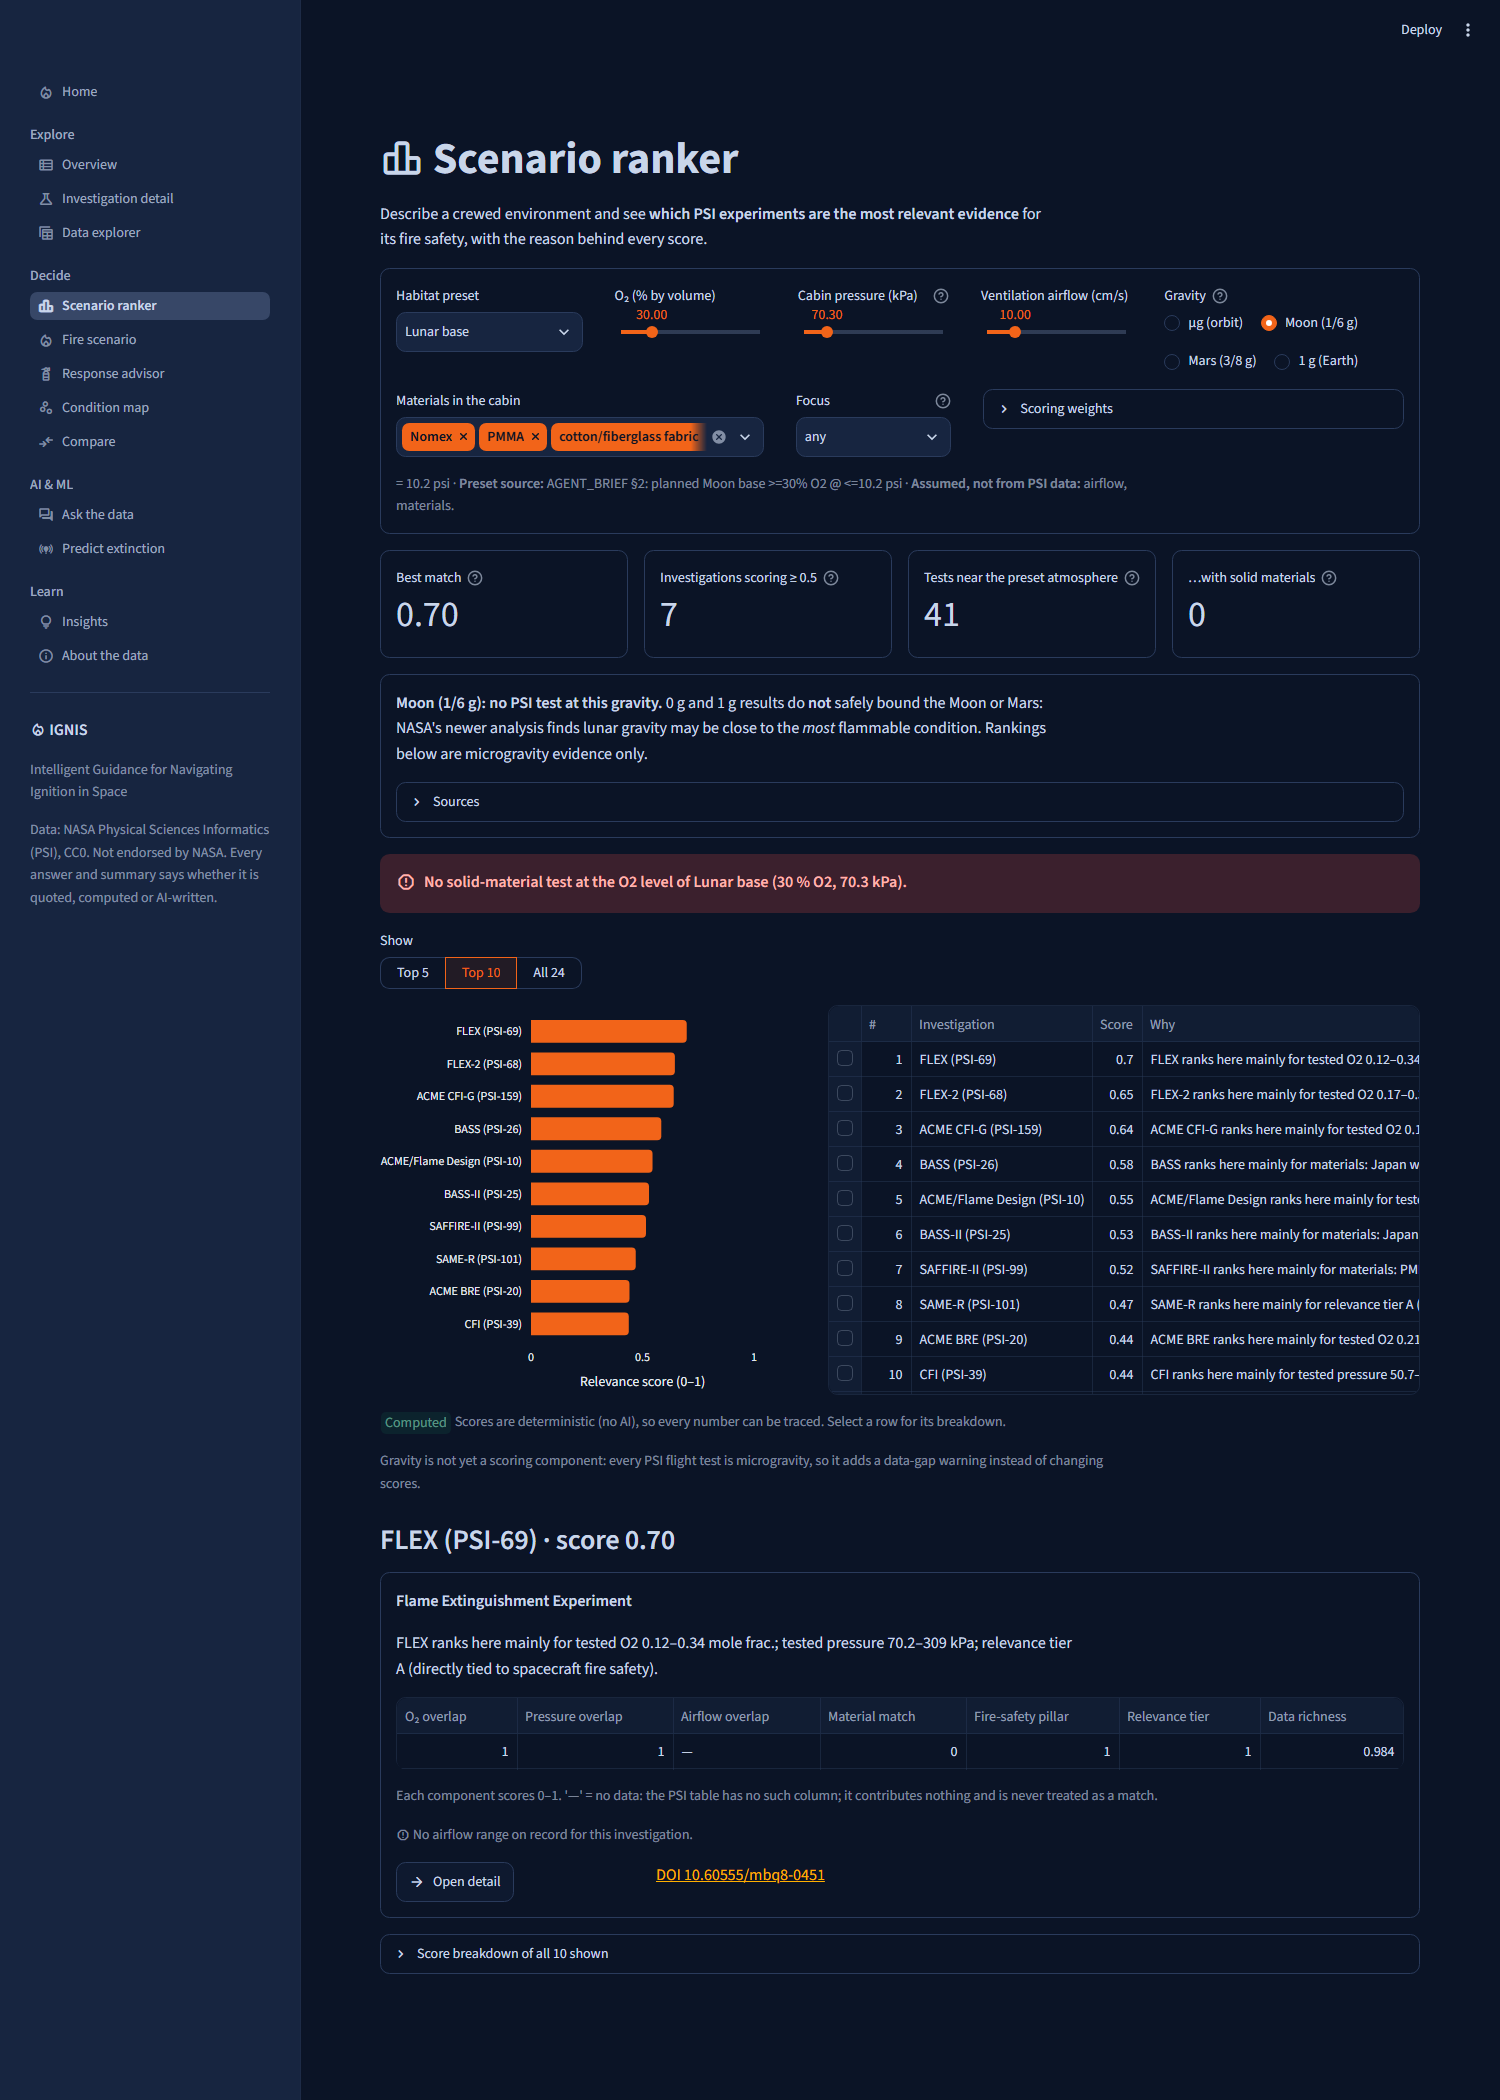
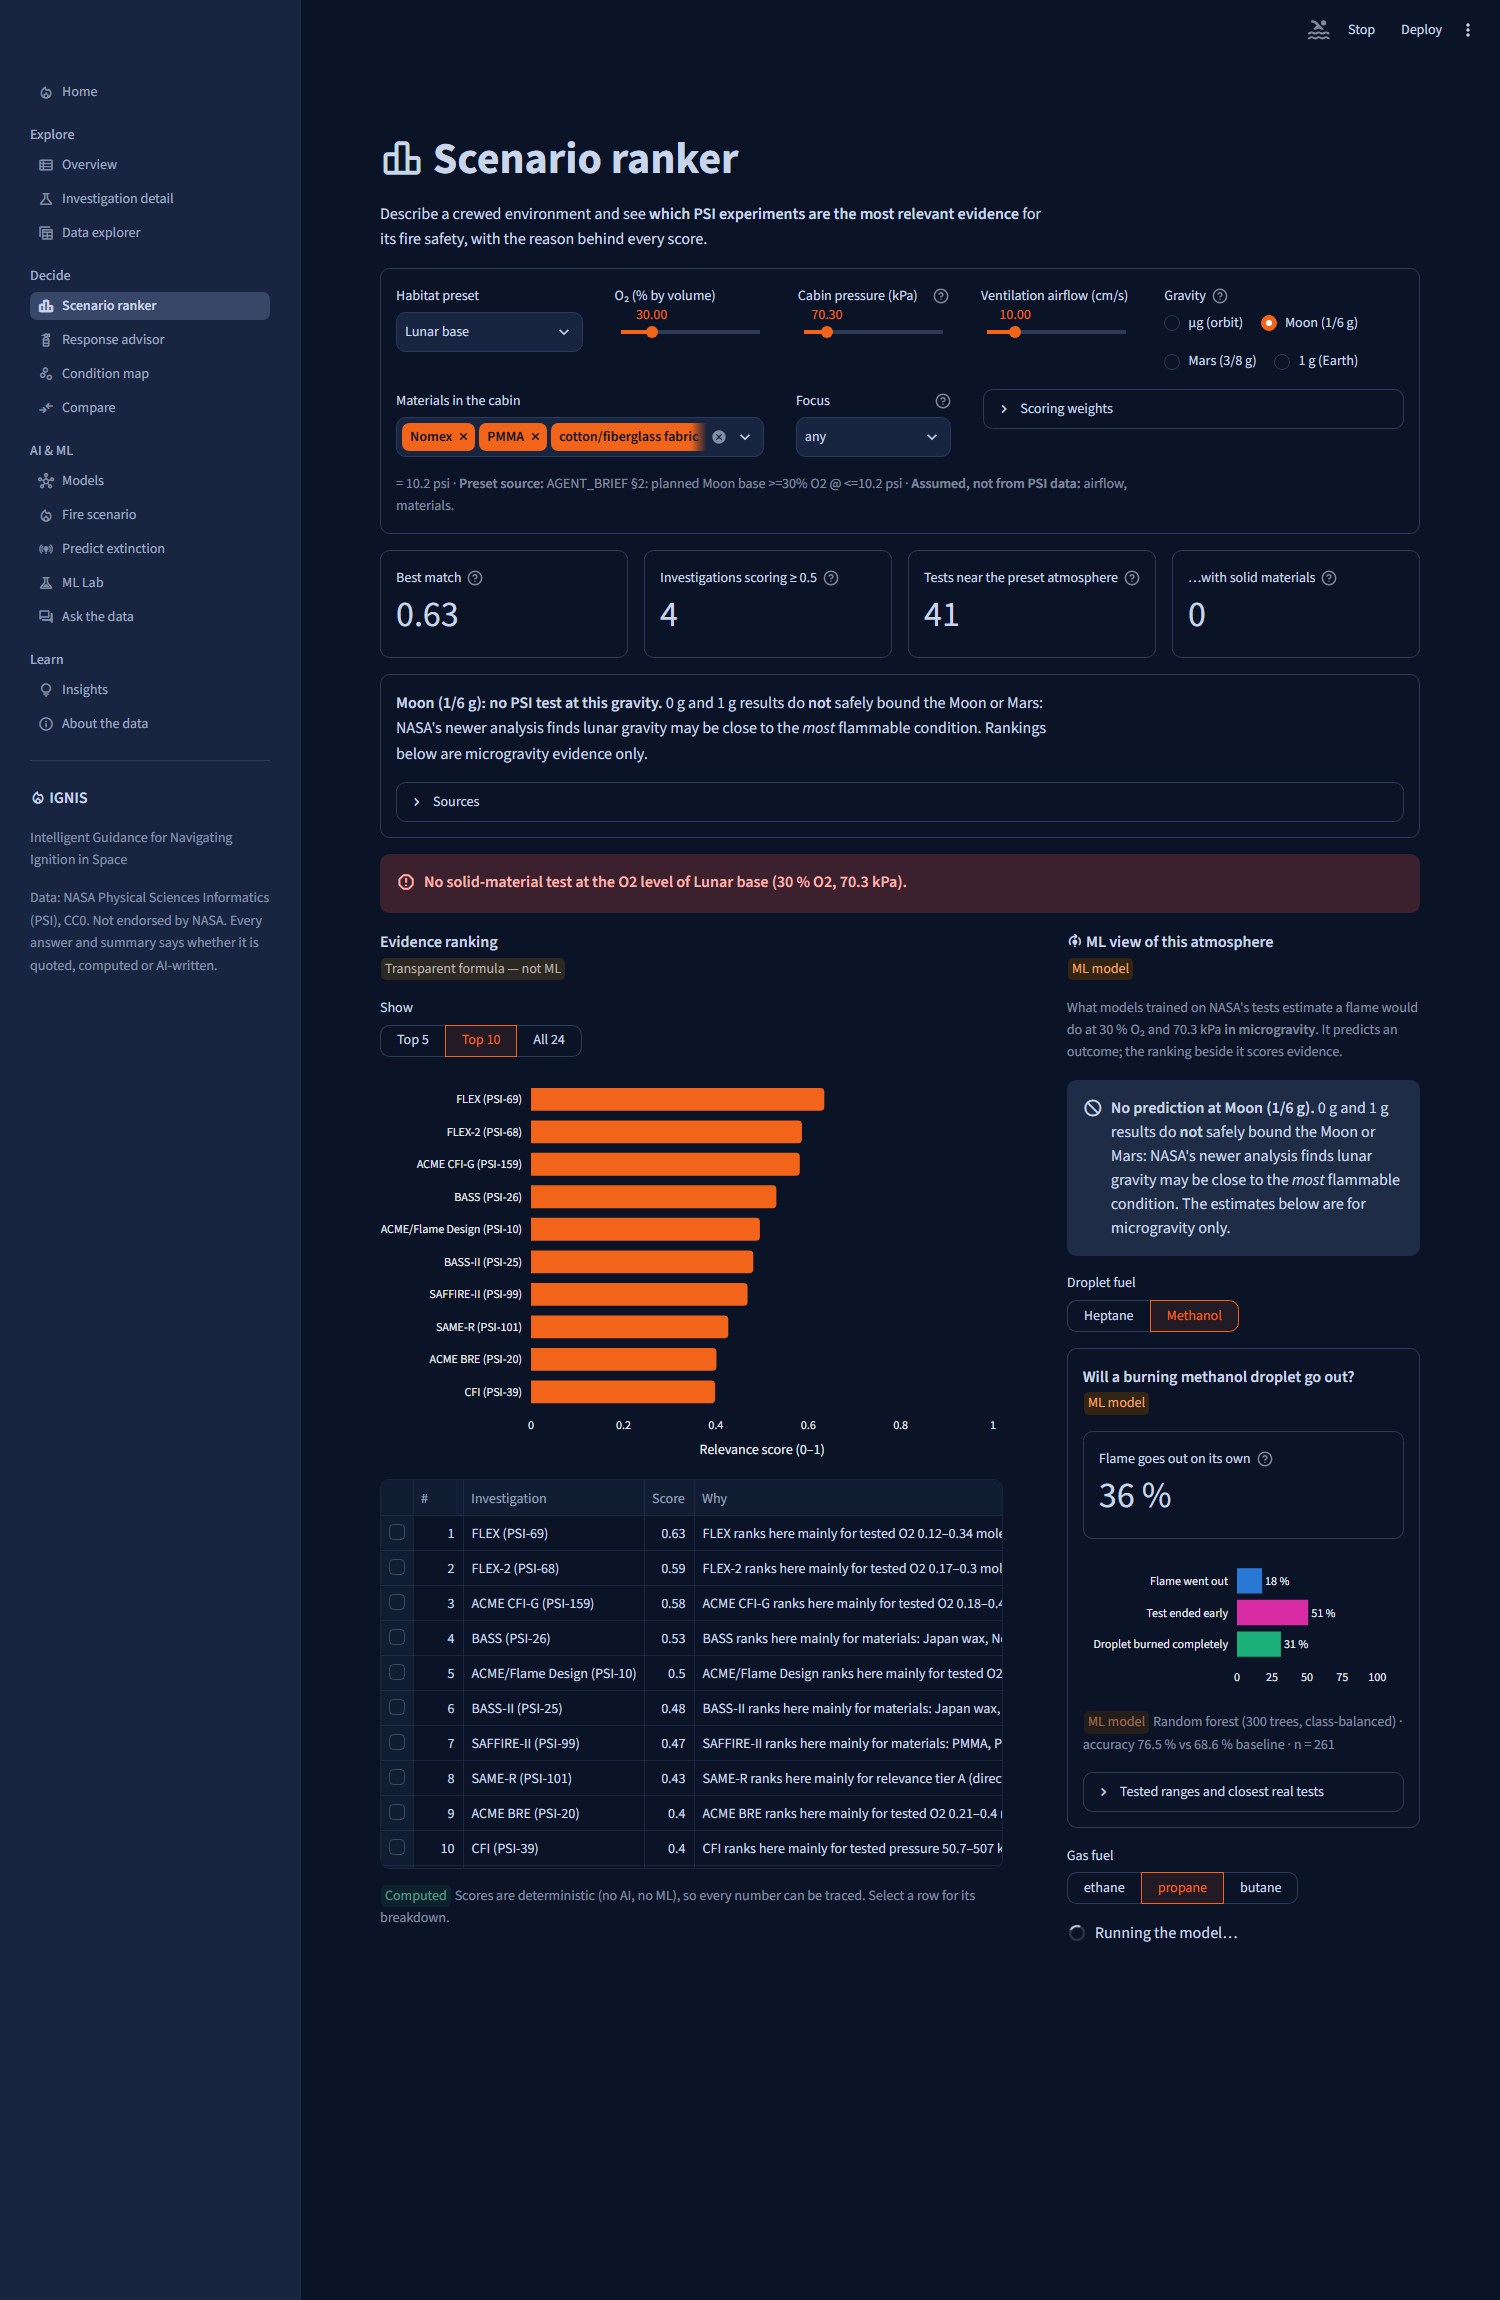
Scenario ranker: "ML view of this atmosphere" beside the evidence ranking
- The ranking is labelled "Transparent formula — not ML"; beside it, compact prediction cards
  from the registry at the chosen O2 / pressure: will a burning droplet go out (heptane / methanol)
  and will a gas flame ignite (+ goes out by itself if ignited), each with its ML badge, score vs
  baseline, and the tested ranges / closest real tests in an expander. A refused input shows the
  reason, not a number. The droplet picker defaults to the first fuel the model covers here.
- Moon / Mars / 1 g: a "no prediction at this gravity" box; the cards are labelled microgravity-only.
- app/ml_ui.py: prediction_card(compact=True, title=...) returns its card; cached predict / explain /
  spec helpers so pages never call the registry uncached.
- Tests: the ranking is labelled formula and the panel ML; Lunar base defaults to methanol because
  heptane is refused at 70.3 kPa, and switching to heptane shows the reason and no number.

Refs #58

diff --git a/app/views/ranker.py b/app/views/ranker.py
@@ -5,7 +5,7 @@ import streamlit as st
 
 from ai.habitats import HABITATS
 from ai.ranking import DEFAULT_WEIGHTS, PILLAR_FOCUS_WEIGHT, rank
-from app import data, ui
+from app import data, ml_ui, ui
 
 # Score components, in the order the breakdown table shows them.
 COMPONENTS = [("o2", "O₂ overlap"), ("pressure", "Pressure overlap"), ("flow", "Airflow overlap"),
@@ -94,12 +94,15 @@ elif gravity == "earth":
 for gap in data.gaps_for(preset)[:1]:
     ui.callout("gap", f"**{gap['text']}**")
 
-# ---------------------------------------------------------------- ranking: score bars | reasons
-top_n = st.segmented_control("Show", [5, 10, 24], default=10, key="top_n",
-                             format_func=lambda n: f"Top {n}" if n < 24 else "All 24") or 10
-shown = results[:top_n]
-left, right = st.columns([1, 1.5], gap="large")
-with left:
+# ---------------------------------------------------------------- evidence ranking (formula) | ML view (models)
+# Two different tools side by side, each labelled: the ranking scores which experiments are relevant evidence
+# (a transparent formula); the models estimate what a flame would do in this atmosphere (#58).
+rank_col, ml_col = st.columns([1.7, 1], gap="large")
+with rank_col:
+    st.markdown(f"**Evidence ranking**  \n{ml_ui.KIND_BADGE['formula']}")
+    top_n = st.segmented_control("Show", [5, 10, 24], default=10, key="top_n",
+                                 format_func=lambda n: f"Top {n}" if n < 24 else "All 24") or 10
+    shown = results[:top_n]
     fig = go.Figure(go.Bar(
         x=[r["score"] for r in shown][::-1], y=[label[r["id"]] for r in shown][::-1], orientation="h",
         marker=dict(color=ui.PALETTE["flame"], cornerradius=4), hovertemplate="%{y}: %{x:.2f}<extra></extra>"))
@@ -107,16 +110,50 @@ with left:
                       xaxis=dict(range=[0, 1], title="Relevance score (0–1)", gridcolor=ui.GRID),
                       yaxis=dict(automargin=True))
     st.plotly_chart(fig, width="stretch", config={"displayModeBar": False})
-with right:
     picked = ui.table([{"#": n, "Investigation": label[r["id"]], "Score": round(r["score"], 2), "Why": r["why"]}
                        for n, r in enumerate(shown, 1)],
-                      height=90 + 30 * len(shown), key="rank_table", on_select="rerun", selection_mode="single-row",
-                      column_config={"Why": st.column_config.TextColumn(width="large")})
-ui.provenance_label("computed", "Scores are deterministic (no AI), so every number can be traced. "
-                                "Select a row for its breakdown.")
-if "gravity" not in DEFAULT_WEIGHTS:
-    st.caption("Gravity is not yet a scoring component: every PSI flight test is microgravity, so it adds "
-               "a data-gap warning instead of changing scores.")
+                      height=90 + 30 * min(len(shown), 10), key="rank_table", on_select="rerun",
+                      selection_mode="single-row", column_config={"Why": st.column_config.TextColumn(width="large")})
+    ui.provenance_label("computed", "Scores are deterministic (no AI, no ML), so every number can be traced. "
+                                    "Select a row for its breakdown.")
+    if "gravity" not in DEFAULT_WEIGHTS:
+        st.caption("Gravity is not yet a scoring component: every PSI flight test is microgravity, so it adds "
+                   "a data-gap warning instead of changing scores.")
+
+
+def _first_ok(model_id: str, fuels: list[str], **kw) -> str:
+    """The first fuel the model gives an estimate for here (the picker still offers every fuel)."""
+    return next((f for f in fuels if ml_ui.predict(model_id, fuel=f, **kw)["ok"]), fuels[0])
+
+
+with ml_col:
+    st.markdown(f"**{ml_ui.ICON} ML view of this atmosphere**  \n{ml_ui.KIND_BADGE['ml']}")
+    st.caption(f"What models trained on NASA's tests estimate a flame would do at {o2_pct:g} % O₂ and {p_kpa:g} kPa "
+               "**in microgravity**. It predicts an outcome; the ranking beside it scores evidence.")
+    if gravity in ("lunar", "mars"):
+        ml_ui.no_prediction(f"{data.PARTIAL_G_SHORT} The estimates below are for microgravity only.",
+                            title=f"No prediction at {data.GRAVITY_OPTIONS[gravity]}")
+    elif gravity == "earth":
+        ml_ui.no_prediction("The models are trained on microgravity tests and are not valid at 1 g. The estimates "
+                            "below are for microgravity only.", title="No prediction at 1 g")
+    atm = {"o2_frac": round(o2_pct / 100, 4), "pressure_kPa": float(p_kpa)}
+    drop_fuels = next(i["choices"] for i in ml_ui.spec("flex_outcome")["inputs"] if i["name"] == "fuel")
+    drop = st.segmented_control("Droplet fuel", drop_fuels, key="rk_drop_fuel",
+                                default=_first_ok("flex_outcome", drop_fuels, **atm)) or drop_fuels[0]
+    ml_ui.prediction_card(ml_ui.predict("flex_outcome", fuel=drop, **atm), ml_ui.spec("flex_outcome"), compact=True,
+                          key="rk_drop", title=f"Will a burning {drop.lower()} droplet go out?")
+    gas_fuels = next(i["choices"] for i in ml_ui.spec("cfig_ignition")["inputs"] if i["name"] == "fuel")
+    gas = st.segmented_control("Gas fuel", gas_fuels, key="rk_gas_fuel",
+                               default="propane" if "propane" in gas_fuels else gas_fuels[0]) or gas_fuels[0]
+    g_res = ml_ui.predict("cfig_ignition", fuel=gas, **atm)
+    with ml_ui.prediction_card(g_res, ml_ui.spec("cfig_ignition"), compact=True, key="rk_gas",
+                               title=f"Will a {gas} flame ignite?"):
+        if g_res["ok"]:
+            se = ml_ui.spec("cfig_self_extinguish")
+            st.caption(f"If it ignites, it goes out by itself: **{g_res['prediction']['p_self_extinguish_if_ignited'] * 100:.0f} %** "
+                       f"(second model, {ml_ui.score_text(se)}).")
+    if st.button("How good are these models?", icon=ui.ICONS["models"], key="rk_models", type="tertiary"):
+        st.switch_page("views/models.py")
 
 # ---------------------------------------------------------------- the selected investigation
 rows = (picked.selection.rows if picked and getattr(picked, "selection", None) else []) or [0]

diff --git a/app/ml_ui.py b/app/ml_ui.py
@@ -38,6 +38,34 @@ def _layout(fig: go.Figure, height: int, **kw) -> go.Figure:
     return fig
 
 
+@st.cache_data(show_spinner="Running the model…")
+def _predict(model_id: str, items: tuple) -> dict:
+    from analysis import registry
+    return registry.predict(model_id, **dict(items))
+
+
+@st.cache_data(show_spinner=False)
+def _explain(model_id: str, items: tuple) -> list[dict]:
+    from analysis import registry
+    return registry.explain(model_id, **dict(items))
+
+
+def predict(model_id: str, **inputs) -> dict:
+    """analysis.registry.predict, cached per input set (the models themselves train once per process)."""
+    return _predict(model_id, tuple(sorted(inputs.items())))
+
+
+def explain(model_id: str, **inputs) -> list[dict]:
+    """analysis.registry.explain, cached; [] when the model gives no prediction for these inputs."""
+    return _explain(model_id, tuple(sorted(inputs.items())))
+
+
+def spec(model_id: str) -> dict:
+    """One registry entry (static models.json, instant)."""
+    from analysis import registry
+    return next(m for m in registry.specs() if m["id"] == model_id)
+
+
 def is_ml(model: dict) -> bool:
     return model.get("kind") == "ml"
 
@@ -116,11 +144,14 @@ def range_gauges(result: dict, model: dict, where=None, key: str = "") -> None:
     (where or st).plotly_chart(fig, width="stretch", config={"displayModeBar": False}, key=f"gauge_{model['id']}_{key}")
 
 
-def prediction_card(result: dict, model: dict, where=None, key: str = "") -> None:
-    """One prediction: the headline, class probabilities, tested-range gauges and the nearest real tests."""
+def prediction_card(result: dict, model: dict, where=None, key: str = "", compact: bool = False,
+                    title: str | None = None):
+    """One prediction: the headline, class probabilities, tested-range gauges and the nearest real tests.
+    compact=True (side panels): headline + probabilities; gauges and closest tests fold into an expander.
+    Returns the card, so a caller can add a line inside it."""
     box = ui.card(where)
     with box:
-        st.markdown(f"**{model['title']}**  \n{KIND_BADGE.get(model['kind'], '')}")
+        st.markdown(f"**{title or model['title']}**  \n{KIND_BADGE.get(model['kind'], '')}")
         if not result.get("ok"):
             no_prediction(result.get("reason") or "The model gives no estimate for these inputs.")
         else:
@@ -145,15 +176,19 @@ def prediction_card(result: dict, model: dict, where=None, key: str = "") -> Non
                         yaxis=dict(autorange="reversed"))
                 st.plotly_chart(fig, width="stretch", config={"displayModeBar": False}, key=f"probs_{model['id']}_{key}")
             ui.provenance_label("ml", f"{model['algorithm']} · {score_text(model)} · n = {model['metrics'].get('n_train')}")
-        st.markdown("**Are these inputs inside what was tested?**")
-        range_gauges(result, model, key=key)
-        near = result.get("nearest_tests") or []
-        if near:
-            st.markdown("**Closest real tests** (what actually happened)")
-            ui.table([{"Test": t["test_id"], "What happened": t["actual"],
-                       **{COLUMN.get(k, k): v for k, v in t["conditions"].items()}} for t in near])
-            src = model.get("source") or {}
-            ui.provenance_label("psi", f"Rows from the {src.get('name', 'PSI')} table {ui.source_link(src.get('doi'), 'DOI')}")
+        detail = st.expander("Tested ranges and closest real tests") if compact else st.container()
+        with detail:
+            st.markdown("**Are these inputs inside what was tested?**")
+            range_gauges(result, model, key=key)
+            near = result.get("nearest_tests") or []
+            if near:
+                st.markdown("**Closest real tests** (what actually happened)")
+                ui.table([{"Test": t["test_id"], "What happened": t["actual"],
+                           **{COLUMN.get(k, k): v for k, v in t["conditions"].items()}} for t in near])
+                src = model.get("source") or {}
+                ui.provenance_label("psi", f"Rows from the {src.get('name', 'PSI')} table "
+                                           f"{ui.source_link(src.get('doi'), 'DOI')}")
+    return box
 
 
 def explanation_chart(explanation: list[dict], where=None, key: str = "explain", unit: str = "percentage points") -> None:

diff --git a/app/tests/test_app_pages.py b/app/tests/test_app_pages.py
@@ -665,7 +665,7 @@ def test_ranker_layout_a():
     assert len(table) == 10 and list(table["#"]) == list(range(1, 11))
     assert table["Score"].is_monotonic_decreasing
     assert len(at.number_input) == 0                                              # no locale-formatted '70,30'
-    at.button_group[0].set_value(5).run()
+    at.button_group(key="top_n").set_value(5).run()
     assert len(next(d.value for d in at.dataframe if "Why" in d.value.columns)) == 5
 
 
@@ -744,3 +744,20 @@ def test_home_ml_widget_for_lunar_base():
             assert f"{r['fuel']}: no prediction" in info and "not extrapolating" in info
             assert not any(k.startswith(r["fuel"]) for k in metrics)                    # ...and no number for it
     assert "At Moon (1/6 g) gravity: no prediction" in info
+
+
+def test_ranker_ml_view_beside_the_formula():
+    """The ranking is labelled a formula; the panel beside it shows model output (or a reason), labelled ML."""
+    at = AppTest.from_file(str(APP_DIR / "views/ranker.py"), default_timeout=300).run()   # Lunar base preset
+    assert not at.exception, at.exception
+    md = " ".join(m.value for m in at.markdown)
+    assert "Evidence ranking" in md and "Transparent formula — not ML" in md
+    assert "ML view of this atmosphere" in md and ":orange-badge[ML model]" in md
+    info = " ".join(i.value for i in at.info)
+    assert "No prediction at Moon (1/6 g)" in info                     # gravity: the models are microgravity only
+    assert at.button_group(key="rk_drop_fuel").value == "Methanol"     # heptane is refused at 70.3 kPa, methanol is not
+    labels = {m.label: m.value for m in at.metric}
+    assert labels["Flame goes out on its own"].endswith("%") and labels["Hot flame ignites"].endswith("%")
+    at.button_group(key="rk_drop_fuel").set_value("Heptane").run()
+    assert "Heptane" not in " ".join(m.label for m in at.metric)
+    assert any("No prediction" in i.value and "outside the FLEX range" in i.value for i in at.info)
